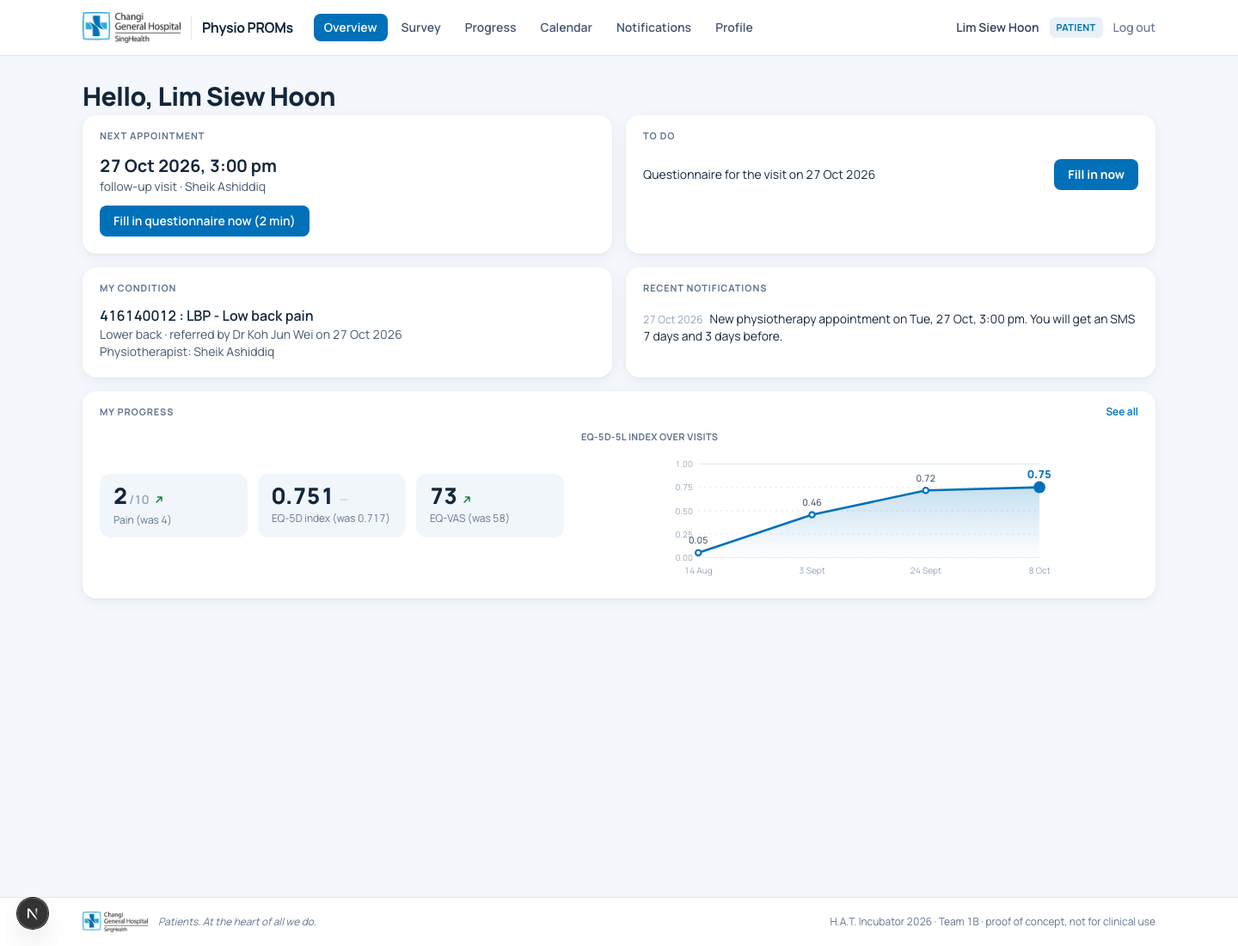
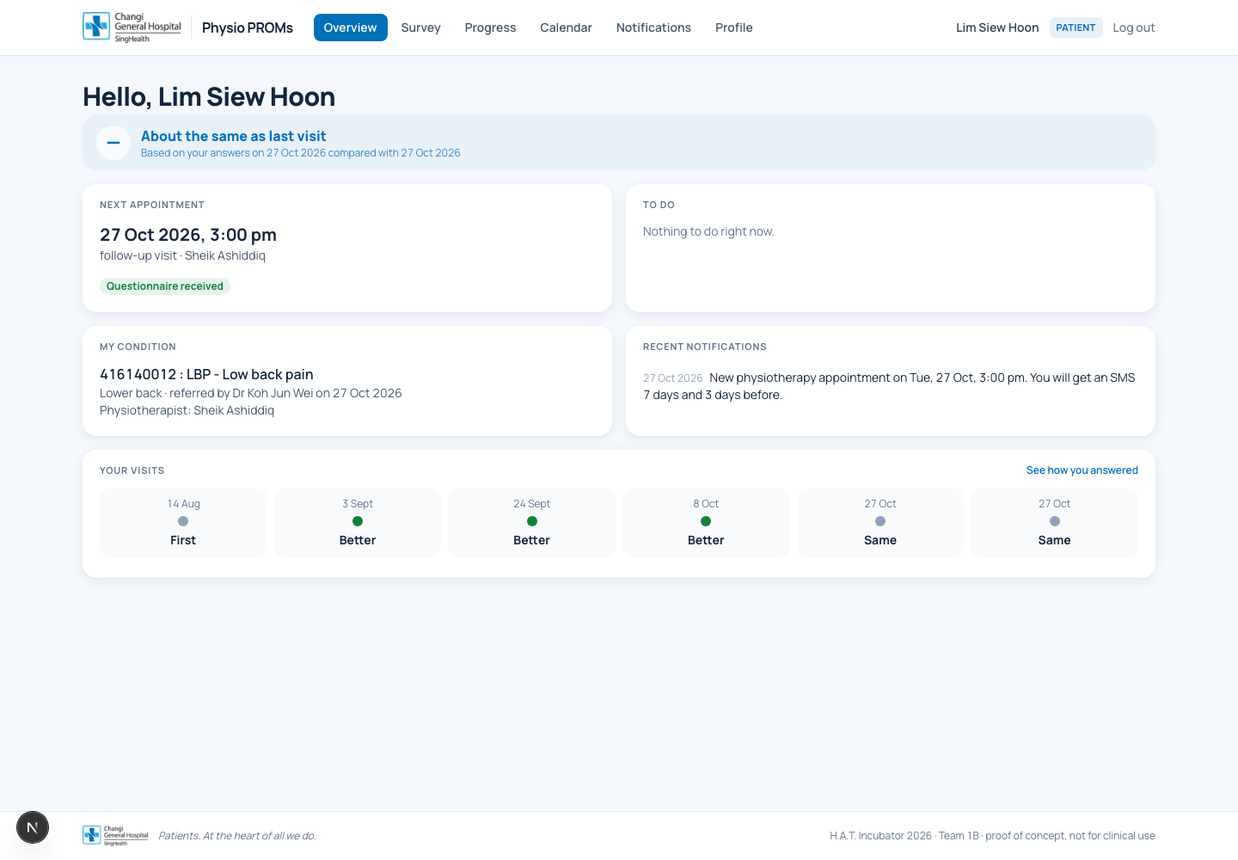
Plain-language patient views: verdict card, answers in the patient's own words with dot scales, pain and health bars, visit strip; physio list gets one 'Change since last visit' column; staff tiles explained in words

diff --git a/web/components/PlainProgress.tsx b/web/components/PlainProgress.tsx
@@ -1,0 +1,82 @@
+import { patientBundle, type Survey } from "@/lib/data";
+import { DIMS, DIM_ICON, VERDICT_TEXT, dimChange, dimName, dimPhrase, verdict } from "@/lib/plain";
+import { Card, LV_BG, Pill, TrendChart, fmtD, fmtDT, startOfTodaySG } from "./ui";
+
+const dLabel = (iso: string) => new Date(iso).toLocaleDateString("en-SG", { day: "numeric", month: "short", timeZone: "Asia/Singapore" });
+const TONE_BG = { ok: "bg-ok-bg text-ok", neutral: "bg-cgh-mist text-cgh-blue", warn: "bg-warn-bg text-warn" };
+const ICON = {
+  ok: "M4 12l5 5L20 7", neutral: "M5 12h14", warn: "M12 5v9m0 4h.01", first: "M12 3v18M3 12h18",
+};
+
+export function VerdictCard({ cur, prev, compact = false }: { cur: Survey | null; prev: Survey | null; compact?: boolean }) {
+  const v = verdict(cur, prev); const t = VERDICT_TEXT[v];
+  const icon = v === "first" ? ICON.first : ICON[t.tone];
+  return <div className={`rounded-2xl ${TONE_BG[t.tone]} ${compact ? "px-4 py-3" : "px-5 py-4"} flex items-center gap-3`}>
+    <span className="w-10 h-10 rounded-full bg-white/70 flex items-center justify-center shrink-0"><svg width="22" height="22" viewBox="0 0 24 24" fill="none" stroke="currentColor" strokeWidth="2.5" strokeLinecap="round" strokeLinejoin="round"><path d={icon} /></svg></span>
+    <div><div className={`font-extrabold ${compact ? "text-base" : "text-lg"}`}>{t.title}</div>{cur && <div className="text-xs opacity-80">Based on your answers on {fmtD(cur.submitted_at)}{prev ? ` compared with ${fmtD(prev.submitted_at)}` : ""}</div>}</div>
+  </div>;
+}
+
+export function Dots({ level }: { level: number }) {
+  return <span className="inline-flex gap-1" aria-label={`level ${level} of 5`}>{[1, 2, 3, 4, 5].map((n) => <span key={n} className={`w-3.5 h-3.5 rounded-full ${n <= level ? LV_BG[level] + " ring-1 ring-black/5" : "bg-slate-200"}`} />)}</span>;
+}
+
+export function VisitStrip({ surveys }: { surveys: Survey[] }) {
+  const last = surveys.slice(-6);
+  if (!last.length) return <p className="text-sm text-slate-500">Your visits will appear here after your first questionnaire.</p>;
+  return <div className="flex gap-2 overflow-x-auto pb-1">{last.map((s, i) => {
+    const prev = i === 0 ? (surveys.length > 6 ? surveys[surveys.length - 7] : null) : last[i - 1];
+    const v = verdict(s, prev); const t = VERDICT_TEXT[v];
+    const dot = { ok: "bg-ok", neutral: "bg-slate-400", warn: "bg-warn" }[t.tone];
+    return <div key={s.id} className="min-w-[96px] flex-1 rounded-xl bg-slate-50 px-3 py-2.5 text-center"><div className="text-xs text-slate-500">{dLabel(s.submitted_at)}</div><div className={`w-3 h-3 rounded-full mx-auto my-1.5 ${dot}`} /><div className="text-sm font-bold">{v === "first" ? "First" : t.short}</div></div>;
+  })}</div>;
+}
+
+function Bar({ value, max, prev, label }: { value: number; max: number; prev: number | null; label: string }) {
+  return <div className="relative h-3 rounded-full bg-slate-200 overflow-visible mt-2" aria-label={label}>
+    <div className="h-3 rounded-full bg-cgh-blue" style={{ width: `${(value / max) * 100}%` }} />
+    {prev != null && <div className="absolute -top-1 h-5 w-0.5 bg-cgh-ink/70" style={{ left: `calc(${(prev / max) * 100}% - 1px)` }}><span className="absolute top-5 -translate-x-1/2 text-[10px] text-slate-500 whitespace-nowrap">last time</span></div>}
+  </div>;
+}
+
+/** The patient's (or caregiver's) plain-language view of the latest questionnaire. */
+export async function PlainProgress({ patientId, caregiver = false }: { patientId: number; caregiver?: boolean }) {
+  const b = await patientBundle(patientId);
+  if (!b) return <p>Patient not found.</p>;
+  const { surveys, appointments } = b;
+  const cur = surveys.at(-1) ?? null, prev = surveys.at(-2) ?? null;
+  const upcoming = appointments.filter((a) => a.status === "scheduled" && new Date(a.scheduled_at) >= startOfTodaySG());
+  return <div className="grid lg:grid-cols-[1fr_360px] gap-4">
+    <div className="space-y-4">
+      <VerdictCard cur={cur} prev={prev} />
+      {cur ? <>
+        <Card title="How you answered" right={`on ${fmtD(cur.submitted_at)}`}>
+          <div className="divide-y divide-slate-100">{DIMS.map((d) => <div key={d} className="py-3 flex items-start gap-3">
+            <span className="w-9 h-9 rounded-xl bg-cgh-mist text-cgh-blue flex items-center justify-center shrink-0"><svg width="20" height="20" viewBox="0 0 24 24" fill="none" stroke="currentColor" strokeWidth="1.8" strokeLinecap="round" strokeLinejoin="round"><path d={DIM_ICON[d]} /></svg></span>
+            <div className="flex-1 min-w-0"><div className="text-xs font-bold uppercase tracking-wide text-slate-500">{dimName(d)}</div><div className="font-semibold text-cgh-ink">{dimPhrase(d, cur[d])}</div>{prev && <div className="text-xs text-slate-500 mt-0.5">{dimChange(cur[d], prev[d])}</div>}</div>
+            <Dots level={cur[d]} />
+          </div>)}</div>
+          <div className="pt-4 mt-1 border-t border-slate-100">
+            <div className="font-semibold">Pain today: <span className="text-cgh-ink font-extrabold">{cur.pain} out of 10</span>{prev && <span className="text-xs text-slate-500 font-normal ml-2">{cur.pain < prev.pain ? "less than last time" : cur.pain > prev.pain ? "more than last time" : "same as last time"} ({prev.pain})</span>}</div>
+            <div className="grid grid-cols-10 gap-1 mt-2">{Array.from({ length: 10 }, (_, i) => <div key={i} className={`h-3 rounded ${i < cur.pain ? (cur.pain >= 7 ? "bg-danger" : cur.pain >= 4 ? "bg-warn" : "bg-ok") : "bg-slate-200"}`} />)}</div>
+            <div className="flex justify-between text-[10px] text-slate-400 mt-1"><span>No pain</span><span>Worst pain</span></div>
+          </div>
+          <div className="pt-4 mt-3 border-t border-slate-100">
+            <div className="font-semibold">You rated your health <span className="text-cgh-ink font-extrabold">{cur.eq_vas} out of 100</span></div>
+            <Bar value={cur.eq_vas} max={100} prev={prev?.eq_vas ?? null} label="health rating" />
+            <div className="flex justify-between text-[10px] text-slate-400 mt-5"><span>Worst health</span><span>Best health</span></div>
+          </div>
+        </Card>
+        <Card title="Your visits" right="each box is one questionnaire"><VisitStrip surveys={surveys} /></Card>
+        {caregiver && <Card title="Pain over visits" right="0 = no pain, 10 = worst pain"><TrendChart points={surveys.map((s) => ({ x: dLabel(s.submitted_at), y: s.pain }))} max={10} min={0} color="#b91c1c" label="" /></Card>}
+        <Card title="Previous answers" tight><table className="tbl"><thead><tr><th>Date</th><th>How it went</th><th>Filled by</th></tr></thead><tbody>
+          {[...surveys].reverse().map((s, i, arr) => { const p = arr[i + 1] ?? null; const v = verdict(s, p); const t = VERDICT_TEXT[v]; return <tr key={s.id}><td>{fmtDT(s.submitted_at)}</td><td><Pill tone={t.tone}>{v === "first" ? "First questionnaire" : t.short}</Pill></td><td className="text-slate-500">{s.filled_by_name}</td></tr>; })}
+        </tbody></table></Card>
+      </> : <Card title="How you answered"><p className="text-sm text-slate-500">After your first questionnaire this page shows your answers in plain words and how they change visit by visit.</p></Card>}
+    </div>
+    <div className="space-y-4">
+      <Card title="Next appointments">{upcoming.length === 0 && <p className="text-sm text-slate-500">No upcoming appointment.</p>}{upcoming.map((a) => <div key={a.id} className="flex items-center gap-2 text-sm py-2 border-b border-slate-100 last:border-0"><div className="flex-1"><div className="font-semibold">{fmtDT(a.scheduled_at)}</div><div className="text-xs text-slate-500">{a.kind} · {a.physio_name ?? "physiotherapist to be confirmed"}</div></div>{a.survey_id ? <Pill ok>Questionnaire received</Pill> : <a href={`/survey?appt=${a.id}`} className="px-3 py-1.5 rounded-lg bg-cgh-blue text-white text-xs font-bold">Fill in now</a>}</div>)}</Card>
+      {b.referrals[0] && <Card title="My condition"><div className="font-semibold">{b.referrals[0].diagnosis}</div><div className="text-sm text-slate-600 mt-1">{b.referrals[0].region} · referred by {b.referrals[0].doctor_name}</div><div className="text-sm text-slate-600">Physiotherapist: {b.referrals[0].physio_name ?? "to be assigned"}</div></Card>}
+    </div>
+  </div>;
+}

diff --git a/web/app/patient/page.tsx b/web/app/patient/page.tsx
@@ -1,9 +1,9 @@
 import { redirect } from "next/navigation";
 import { session } from "@/lib/auth";
 import { db, one } from "@/lib/db";
-import { patientBundle, flagsFor } from "@/lib/data";
-import { PatientDetail } from "@/components/PatientDetail";
-import { Card, Pill, Stat, TrendChart, fmtDT, fmtD, age, startOfTodaySG } from "@/components/ui";
+import { patientBundle } from "@/lib/data";
+import { PlainProgress, VerdictCard, VisitStrip } from "@/components/PlainProgress";
+import { Card, Pill, fmtDT, fmtD, age, startOfTodaySG } from "@/components/ui";
 import { Nav } from "@/components/Nav";
 import { Suspense } from "react";
 import { markReadAction } from "../actions";
@@ -20,8 +20,7 @@ export default async function PatientPage({ searchParams }: { searchParams: Prom
   const unread = notes.filter((n) => n.channel === "app" && !n.read_at).length;
   const next = b.appointments.find((a) => a.status === "scheduled" && new Date(a.scheduled_at) >= startOfTodaySG());
   const pending = b.appointments.filter((a) => a.status === "scheduled" && !a.survey_id && new Date(a.scheduled_at) >= startOfTodaySG());
-  const cur = b.surveys.at(-1) ?? null, prev = b.surveys.at(-2) ?? null, fl = flagsFor(cur, prev);
-  const dLabel = (iso: string) => new Date(iso).toLocaleDateString("en-SG", { day: "numeric", month: "short", timeZone: "Asia/Singapore" });
+  const cur = b.surveys.at(-1) ?? null, prev = b.surveys.at(-2) ?? null;
   const tabs: [string, string][] = [["home", "Overview"], ["survey", "Survey"], ["progress", "Progress"], ["calendar", "Calendar"], ["notifications", `Notifications${unread ? ` (${unread})` : ""}`], ["profile", "Profile"]];
   return <div>
     {s.user.role === "caregiver" && <div className="mb-3 bg-warn-bg rounded-lg px-3 py-2 text-sm">You are viewing <b>{b.patient.name}</b>'s page as their caregiver. <a href="/caregiver" className="underline">Switch parent</a></div>}
@@ -29,23 +28,15 @@ export default async function PatientPage({ searchParams }: { searchParams: Prom
     <div className="my-4 md:hidden"><Suspense><Nav items={tabs.map(([k, l]) => [k === "home" ? "/patient" : `/patient?tab=${k}`, l])} /></Suspense></div>
     {done && <div className="mb-3 bg-ok-bg rounded-lg px-3 py-2 text-sm">Thank you, your questionnaire has been sent to your physiotherapist.</div>}
     {tab === "home" && <div className="grid md:grid-cols-2 gap-4">
+      {b.surveys.length > 0 && <div className="md:col-span-2"><VerdictCard cur={cur} prev={prev} compact /></div>}
       <Card title="Next appointment">{next ? <><div className="text-xl font-bold">{fmtDT(next.scheduled_at)}</div><div className="text-slate-600 text-sm">{next.kind} visit · {next.physio_name ?? "physiotherapist TBC"}</div><div className="mt-3">{next.survey_id ? <Pill ok>Questionnaire received</Pill> : <a href={`/survey?appt=${next.id}`} className="inline-block px-4 py-2 rounded-lg bg-cgh-blue text-white text-sm font-semibold">Fill in questionnaire now (2 min)</a>}</div></> : <p className="text-slate-500 text-sm">No upcoming appointment.</p>}</Card>
       <Card title="To do">{pending.length ? pending.map((a) => <div key={a.id} className="flex items-center justify-between text-sm py-1.5 border-b border-slate-100 last:border-0"><span>Questionnaire for the visit on {fmtD(a.scheduled_at)}</span><a href={`/survey?appt=${a.id}`} className="px-4 py-2 rounded-lg bg-cgh-blue text-white text-sm font-bold hover:bg-cgh-blue-dark">Fill in now</a></div>) : <p className="text-slate-500 text-sm">Nothing to do right now.</p>}</Card>
       <Card title="My condition">{b.referrals[0] ? <><div className="font-semibold">{b.referrals[0].diagnosis}</div><div className="text-sm text-slate-600">{b.referrals[0].region} · referred by {b.referrals[0].doctor_name} on {fmtD(b.referrals[0].created_at)}</div><div className="text-sm text-slate-600">Physiotherapist: {b.referrals[0].physio_name ?? "to be assigned"}</div></> : <p className="text-slate-500 text-sm">No referral yet.</p>}</Card>
       <Card title="Recent notifications">{notes.slice(0, 4).map((n) => <div key={n.id} className="text-sm py-1.5 border-b border-slate-100 last:border-0"><span className="text-xs text-slate-400 mr-2">{fmtD(n.send_at)}</span>{n.message}</div>)}{notes.length === 0 && <p className="text-slate-500 text-sm">None.</p>}</Card>
-      <Card title="My progress" right={<a href="/patient?tab=progress" className="text-cgh-blue font-semibold">See all</a>} className="md:col-span-2">
-        {cur ? <div className="grid md:grid-cols-[1fr_1.2fr] gap-5 items-center">
-          <div className="grid grid-cols-3 gap-3">
-            <Stat value={cur.pain} unit="/10" label={<>Pain {prev && `(was ${prev.pain})`}</>} arrow={fl.pain} />
-            <Stat value={cur.index_value.toFixed(3)} label={<>EQ-5D index {prev && `(was ${prev.index_value.toFixed(3)})`}</>} arrow={fl.index} />
-            <Stat value={cur.eq_vas} label={<>EQ-VAS {prev && `(was ${prev.eq_vas})`}</>} arrow={fl.vas} />
-          </div>
-          <TrendChart points={b.surveys.map((x) => ({ x: dLabel(x.submitted_at), y: x.index_value }))} max={1} min={0} label="EQ-5D-5L index over visits" fmt={(v) => v.toFixed(2)} />
-        </div> : <p className="text-sm text-slate-500">Your progress charts will appear here after your first questionnaire.</p>}
-      </Card>
+      <Card title="Your visits" right={<a href="/patient?tab=progress" className="text-cgh-blue font-semibold">See how you answered</a>} className="md:col-span-2"><VisitStrip surveys={b.surveys} /></Card>
     </div>}
     {tab === "survey" && <Card title="Questionnaire (EQ-5D-5L)">{pending.length ? <div className="space-y-2">{pending.map((a) => <div key={a.id} className="flex items-center justify-between text-sm"><span>For your appointment on <b>{fmtDT(a.scheduled_at)}</b></span><a href={`/survey?appt=${a.id}`} className="px-3 py-1.5 rounded bg-cgh-blue text-white text-xs font-semibold">Start</a></div>)}</div> : <div className="text-sm text-slate-600">No questionnaire due right now. You can still record how you feel today: <a href="/survey" className="underline text-cgh-blue">fill an extra entry</a>.</div>}</Card>}
-    {tab === "progress" && <PatientDetail patientId={patientId} self />}
+    {tab === "progress" && <PlainProgress patientId={patientId} caregiver={s.user.role === "caregiver"} />}
     {tab === "calendar" && <Card title="Calendar"><table className="tbl"><thead><tr><th>When</th><th>Visit</th><th>Physiotherapist</th><th>Questionnaire</th></tr></thead><tbody>{[...b.appointments].reverse().map((a) => <tr key={a.id} ><td>{fmtDT(a.scheduled_at)}</td><td>{a.kind} <span className="text-slate-400">· {a.status}</span></td><td>{a.physio_name ?? "—"}</td><td>{a.survey_id ? <Pill ok>done</Pill> : a.status === "scheduled" ? <a href={`/survey?appt=${a.id}`} className="underline text-cgh-blue">fill now</a> : "—"}</td></tr>)}</tbody></table></Card>}
     {tab === "notifications" && <Card title="Notifications" right={<form action={markReadAction}><button className="underline">Mark all as read</button></form>}>{notes.map((n) => <div key={n.id} className={`text-sm py-2 border-b border-slate-100 last:border-0 ${n.channel === "app" && !n.read_at ? "font-semibold" : ""}`}><span className="text-xs text-slate-400 mr-2">{fmtDT(n.send_at)} · {n.channel.toUpperCase()}</span>{n.message}</div>)}{notes.length === 0 && <p className="text-slate-500 text-sm">None.</p>}</Card>}
     {tab === "profile" && <Card title="Personal particulars"><dl className="grid grid-cols-[160px_1fr] gap-y-2 text-sm"><dt className="text-slate-500">Name</dt><dd>{b.patient.name}</dd><dt className="text-slate-500">NRIC</dt><dd>{b.patient.login_id.slice(0, 1)}****{b.patient.login_id.slice(-4)}</dd><dt className="text-slate-500">Birthday</dt><dd>{fmtD(b.patient.birthday)} ({age(b.patient.birthday) ?? "-"} y)</dd><dt className="text-slate-500">Gender</dt><dd>{b.patient.gender ?? "—"}</dd><dt className="text-slate-500">Mobile</dt><dd>{b.patient.phone ?? "—"}</dd><dt className="text-slate-500">Address</dt><dd>{b.patient.address ?? "—"}</dd><dt className="text-slate-500">Caregivers</dt><dd>{b.caregivers.length ? b.caregivers.map((c) => `${c.name} (${c.relationship})`).join(", ") : "none linked"}</dd></dl></Card>}

diff --git a/web/app/physio/page.tsx b/web/app/physio/page.tsx
@@ -1,8 +1,10 @@
 import { redirect } from "next/navigation";
 import { session } from "@/lib/auth";
 import { db } from "@/lib/db";
-import { clinicList, levels, profileStr } from "@/lib/data";
-import { Arrow, Card, Pill, ProfileBadge, age, fmtD, fmtDT, fmtT } from "@/components/ui";
+import { clinicList } from "@/lib/data";
+import { DIMS, DIM_LABEL } from "@/lib/eq5d";
+import { VERDICT_TEXT, verdict } from "@/lib/plain";
+import { Card, Pill, age, fmtD, fmtDT, fmtT } from "@/components/ui";
 
 export default async function Physio({ searchParams }: { searchParams: Promise<{ day?: string }> }) {
   const s = await session(); if (!s || s.user.role !== "physio") redirect("/login");
@@ -19,17 +21,19 @@ export default async function Physio({ searchParams }: { searchParams: Promise<{
   const nSub = list.filter((r) => r.cur).length;
   return <div className="space-y-4">
     <Card tight title={`Clinic list · ${fmtD(date)}`} right={<span className="flex items-center gap-2">{nSub}/{list.length} questionnaires in before visit <form className="inline"><input type="date" name="day" defaultValue={date.toLocaleDateString("en-CA", { timeZone: "Asia/Singapore" })} className="border border-slate-300 rounded px-1 text-xs" /></form></span>}>
-      <table className="tbl"><thead><tr><th>Time</th><th>Status</th><th>Patient</th><th>Age · Sex</th><th>Region / diagnosis</th><th className="num">Pain</th><th>EQ-5D-5L</th><th className="num">Index</th><th className="num">EQ-VAS</th><th>Previous</th></tr></thead><tbody>
+      <table className="tbl"><thead><tr><th>Time</th><th>Status</th><th>Patient</th><th>Age · Sex</th><th>Region / diagnosis</th><th>Change since last visit</th></tr></thead><tbody>
         {list.map((r) => <tr key={r.appt_id} ><td className="font-bold tabular-nums whitespace-nowrap">{fmtT(r.scheduled_at)}</td>
           <td>{r.cur ? <><Pill ok>Submitted</Pill><div className="text-xs text-slate-500">{fmtDT(r.cur.submitted_at)}</div></> : <Pill ok={false}>Not submitted</Pill>}</td>
           <td><a href={`/patients/${r.patient_id}`} className="font-semibold text-cgh-blue hover:underline">{r.name}</a><div className="text-xs text-slate-500">{r.kind} · {r.nPrev} prior</div></td>
           <td>{age(r.birthday) ?? "-"} · {(r.gender ?? "-")[0]}</td><td>{r.region}<div className="text-xs text-slate-500 max-w-[220px] truncate">{r.diagnosis}</div></td>
-          <td className="num">{r.cur ? <><b>{r.cur.pain}</b><span className="text-slate-400">/10</span> <Arrow f={r.flags.pain} /></> : <span className="text-slate-300">—</span>}</td><td>{r.cur ? <ProfileBadge s={levels(r.cur)} /> : <span className="text-slate-300">—</span>}</td>
-          <td className="num">{r.cur ? <><b>{r.cur.index_value.toFixed(3)}</b> <Arrow f={r.flags.index} /></> : <span className="text-slate-300">—</span>}</td><td className="num">{r.cur ? <><b>{r.cur.eq_vas}</b> <Arrow f={r.flags.vas} /></> : <span className="text-slate-300">—</span>}</td>
-          <td className="min-w-[150px]">{r.prev ? <><span className="font-mono font-bold text-slate-700">{profileStr(r.prev)}</span> <span className="text-xs text-slate-400">{fmtD(r.prev.submitted_at)}</span><div className="text-xs text-slate-500 tabular-nums mt-0.5">index {r.prev.index_value.toFixed(2)} · VAS {r.prev.eq_vas} · pain {r.prev.pain}/10</div></> : <span className="text-slate-400">first visit</span>}</td></tr>)}
+          <td className="min-w-[260px]">{r.cur ? (() => { const v = verdict(r.cur, r.prev); const t = VERDICT_TEXT[v]; const why: string[] = [];
+              if (r.prev) { if (r.cur.pain !== r.prev.pain) why.push(`pain ${r.prev.pain}→${r.cur.pain}`); for (const d of DIMS) if (r.cur[d] !== r.prev[d]) why.push(`${DIM_LABEL[d].toLowerCase()} ${r.prev[d]}→${r.cur[d]}`); if (r.cur.eq_vas !== r.prev.eq_vas) why.push(`health ${r.prev.eq_vas}→${r.cur.eq_vas}`); if (!why.length) why.push("all answers the same"); }
+              else why.push(`pain ${r.cur.pain}/10`, `health ${r.cur.eq_vas}/100`);
+              return <><Pill tone={t.tone}>{v === "first" ? "First visit" : v === "better" ? "Improved" : v === "same" ? "Stable" : "Worse"}</Pill><div className="text-xs text-slate-500 mt-1">{why.slice(0, 4).join(" · ")}</div></>; })() : <span className="text-slate-300">awaiting questionnaire</span>}</td>
+          </tr>)}
         {list.length === 0 && <tr><td colSpan={10} className="py-3 text-slate-400">No appointments on this day.</td></tr>}
       </tbody></table>
-      <div className="text-xs text-slate-500 mt-2 px-4 pb-2"><Arrow f="improved" /> <Arrow f="worsened" /> change of at least the MCID versus the previous questionnaire · click a name for full history and the clinical-document note</div>
+      <div className="text-xs text-slate-500 mt-2 px-4 pb-2">Improved / Stable / Worse compares today's answers with the previous questionnaire · click a name for the full EQ-5D-5L profile, scores and the clinical-document note</div>
     </Card>
     <div className="grid lg:grid-cols-[1fr_320px] gap-4">
       <Card title="My patients" right={`${mine.length} active referrals`}>

diff --git a/web/components/PatientDetail.tsx b/web/components/PatientDetail.tsx
@@ -1,5 +1,5 @@
 import { clinicalNote, levels, profileStr, patientBundle, flagsFor } from "@/lib/data";
-import { DIMS, DIM_LABEL, LEVEL_LABEL } from "@/lib/eq5d";
+import { DIMS, DIM_LABEL, LEVEL_LABEL, VALUE_SET } from "@/lib/eq5d";
 import { Arrow, Card, LV_BG, Pill, ProfileBadge, Stat, TrendChart, age, fmtD, fmtDT, startOfTodaySG } from "./ui";
 import { CopyButton } from "./CopyButton";
 import { ActionForm, Field, inputCls } from "./Form";
@@ -21,10 +21,15 @@ export async function PatientDetail({ patientId, staff = false, self = false }: 
         {!self && <div className="mb-3"><div className="text-lg font-bold">{patient.name}</div><div className="text-slate-600 text-sm">{patient.login_id.slice(0, 1)}****{patient.login_id.slice(-4)} · {patient.gender ?? "-"} · {age(patient.birthday) ?? "-"} y · {patient.phone ?? "no phone"}{caregivers.length > 0 && <> · caregivers: {caregivers.map((c) => `${c.name} (${c.relationship})`).join(", ")}</>}</div></div>}
         {cur ? <>
           <div className="grid grid-cols-3 gap-3 mb-4">
-            <Stat value={cur.pain} unit="/10" label={<>Pain {prev && `(was ${prev.pain})`}</>} arrow={fl.pain} />
-            <Stat value={cur.index_value.toFixed(3)} label={<>EQ-5D index {prev && `(was ${prev.index_value.toFixed(3)})`}</>} arrow={fl.index} />
-            <Stat value={cur.eq_vas} label={<>EQ-VAS {prev && `(was ${prev.eq_vas})`}</>} arrow={fl.vas} />
+            <Stat value={cur.pain} unit="/10" label="Pain NRS" change={fl.pain} />
+            <Stat value={cur.index_value.toFixed(3)} label="EQ-5D-5L index" change={fl.index} />
+            <Stat value={cur.eq_vas} label="EQ-VAS" change={fl.vas} />
           </div>
+          <ul className="text-xs text-slate-500 mb-4 space-y-0.5 list-disc pl-4">
+            <li>Pain NRS 0–10, lower is better{prev && <> · was {prev.pain} · {cur.pain - prev.pain >= 0 ? "+" : ""}{cur.pain - prev.pain}{fl.pain === "stable" ? ", not clinically meaningful" : ", clinically meaningful"}</>}</li>
+            <li>EQ-5D-5L index 0–1, higher is better ({VALUE_SET} value set){prev && <> · was {prev.index_value.toFixed(2)} · {cur.index_value - prev.index_value >= 0 ? "+" : ""}{(cur.index_value - prev.index_value).toFixed(2)}{fl.index === "stable" ? ", not clinically meaningful" : ", clinically meaningful"}</>}</li>
+            <li>EQ-VAS 0–100, patient's own rating of their health, higher is better{prev && <> · was {prev.eq_vas} · {cur.eq_vas - prev.eq_vas >= 0 ? "+" : ""}{cur.eq_vas - prev.eq_vas}{fl.vas === "stable" ? ", not clinically meaningful" : ", clinically meaningful"}</>}</li>
+          </ul>
           <table className="tbl mb-2"><thead><tr><th>Dimension</th><th>Latest · {fmtD(cur.submitted_at)}</th><th>{prev ? <>Previous · {fmtD(prev.submitted_at)}</> : "Previous"}</th></tr></thead><tbody>
             {DIMS.map((d) => <tr key={d} ><td>{DIM_LABEL[d]}</td><td><span className={`inline-block w-6 text-center rounded font-bold ${LV_BG[cur[d]]}`}>{cur[d]}</span> <span className="text-slate-500">{LEVEL_LABEL[cur[d]]}</span></td><td>{prev ? <span className={`inline-block w-6 text-center rounded font-bold ${LV_BG[prev[d]]}`}>{prev[d]}</span> : "—"}</td></tr>)}
           </tbody></table>

diff --git a/web/app/page.tsx b/web/app/page.tsx
@@ -3,7 +3,6 @@ import { redirect } from "next/navigation";
 import { session } from "@/lib/auth";
 import { HOME } from "@/lib/roles";
 import { DEMO_PASSWORD } from "@/lib/seed";
-import { Arrow } from "@/components/ui";
 
 const DIMS = [["Mobility", 2], ["Self-care", 1], ["Usual activities", 2], ["Pain / discomfort", 3], ["Anxiety / depression", 1]] as const;
 const LV = ["", "lv1", "lv2", "lv3", "lv4", "lv5"];
@@ -27,7 +26,7 @@ export default async function Home() {
         <div className="absolute -inset-6 bg-gradient-to-br from-cgh-mist to-transparent rounded-[32px] -z-10" />
         <div className="bg-white rounded-2xl shadow-card p-5">
           <div className="flex items-center justify-between"><div><div className="text-[11px] font-bold uppercase tracking-wide text-slate-500">Clinic list · today</div><div className="font-bold text-cgh-ink">Tan Wei Ming · Knee · follow-up, 2:00 pm</div></div><span className="px-2 py-0.5 rounded-full text-xs font-bold bg-ok-bg text-ok">Submitted last night</span></div>
-          <div className="grid grid-cols-3 gap-3 mt-4">{[["3", "/10", "Pain", "from 5"], ["0.829", "", "EQ-5D index", "from 0.70"], ["72", "", "EQ-VAS", "from 60"]].map(([v, u, l, d]) => <div key={l} className="rounded-xl bg-cgh-mist/60 px-3 py-2.5"><div className="text-xl font-extrabold tabular-nums">{v}<span className="text-xs text-slate-400 font-semibold">{u}</span></div><div className="text-[11px] text-slate-500">{l}</div><div className="text-[11px] font-bold text-ok mt-0.5"><Arrow f="improved" /> {d}</div></div>)}</div>
+          <div className="grid grid-cols-3 gap-3 mt-4">{[["3", "/10", "Pain", "less than last visit"], ["Improved", "", "Since last visit", "pain 5→3, mobility 3→2"], ["72", "/100", "Own health rating", "up from 60"]].map(([v, u, l, d]) => <div key={l} className="rounded-xl bg-cgh-mist/60 px-3 py-2.5"><div className="text-xl font-extrabold tabular-nums">{v}<span className="text-xs text-slate-400 font-semibold">{u}</span></div><div className="text-[11px] text-slate-500">{l}</div><div className="text-[11px] font-bold text-ok mt-0.5">{d}</div></div>)}</div>
           <div className="mt-4 space-y-1.5">{DIMS.map(([d, l]) => <div key={d} className="flex items-center gap-3 text-sm"><span className="w-40 text-slate-600">{d}</span><span className="flex gap-1">{[1, 2, 3, 4, 5].map((n) => <span key={n} className={`w-7 h-6 rounded text-xs font-bold leading-6 text-center ${n === l ? LV[n] : "bg-slate-100 text-slate-300"}`}>{n}</span>)}</span></div>)}</div>
           <div className="mt-4 flex items-center gap-2"><span className="px-3 py-1.5 rounded-lg bg-cgh-blue text-white text-xs font-bold">Copy note for clinical document</span><span className="text-xs text-slate-400">EQ-5D-5L profile 21231 · England 2018 value set</span></div>
         </div>

diff --git a/web/lib/plain.ts b/web/lib/plain.ts
@@ -1,0 +1,42 @@
+// Plain-language helpers for patient-facing views. No index values, no profiles, no arrows.
+import { DIMS, DIM_LABEL, QUESTIONS, type Dim } from "./eq5d";
+import { flagsFor, type Survey } from "./data";
+
+export type Verdict = "better" | "same" | "worse" | "first";
+
+export function verdict(cur: Survey | null, prev: Survey | null): Verdict {
+  if (!cur) return "first";
+  if (!prev) return "first";
+  const f = flagsFor(cur, prev);
+  const score = [f.index, f.vas, f.pain].reduce((n, x) => n + (x === "improved" ? 1 : x === "worsened" ? -1 : 0), 0);
+  return score > 0 ? "better" : score < 0 ? "worse" : "same";
+}
+
+export const VERDICT_TEXT: Record<Verdict, { title: string; short: string; tone: "ok" | "neutral" | "warn" }> = {
+  better: { title: "You are doing better than last visit", short: "Better", tone: "ok" },
+  same: { title: "About the same as last visit", short: "Same", tone: "neutral" },
+  worse: { title: "Not as good as last visit", short: "Worse", tone: "warn" },
+  first: { title: "This is your first questionnaire", short: "First", tone: "neutral" },
+};
+
+/** Per-dimension comparison in words. Lower level = better. */
+export function dimChange(cur: number, prev: number | null): string {
+  if (prev == null) return "";
+  const d = prev - cur;
+  if (d === 0) return "same as last time";
+  if (d === 1) return "a little better than last time";
+  if (d > 1) return "better than last time";
+  if (d === -1) return "a little worse than last time";
+  return "worse than last time";
+}
+
+export const DIM_ICON: Record<Dim, string> = {
+  mo: "M9 4a1.5 1.5 0 1 1 3 0a1.5 1.5 0 0 1-3 0zM8 21l2-6 2 2v4h2v-5l-2-2 1-3 2 2h3v-2h-2l-3-3h-3L6 11v4h2v-3l1.5-1L8 21z",
+  sc: "M6 3h12v2H6zM7 6h10l-1 13H8zM10 10v5M14 10v5",
+  ua: "M3 20h18M5 20V9l7-5 7 5v11M10 20v-6h4v6",
+  pd: "M13 2 4 14h6l-1 8 9-12h-6z",
+  ad: "M7 17a5 5 0 0 1 0-10 6 6 0 0 1 11 2 4 4 0 0 1-1 8z",
+};
+export const dimPhrase = (d: Dim, level: number) => QUESTIONS[d].opts[level - 1];
+export const dimName = (d: Dim) => DIM_LABEL[d];
+export { DIMS };

diff --git a/web/components/ui.tsx b/web/components/ui.tsx
@@ -22,8 +22,9 @@ export const Pill = ({ ok, children, tone }: { ok?: boolean; children: React.Rea
   return <span className={`inline-block px-2 py-0.5 rounded-full text-xs font-bold ${cls}`}>{children}</span>;
 };
 
-export const Stat = ({ value, unit, label, arrow }: { value: React.ReactNode; unit?: string; label: React.ReactNode; arrow?: string }) =>
-  <div className="rounded-xl bg-cgh-mist/60 px-4 py-3"><div className="text-[26px] font-extrabold tabular-nums leading-none text-cgh-ink">{value}{unit && <span className="text-sm font-semibold text-slate-400 ml-0.5">{unit}</span>} {arrow && <Arrow f={arrow} />}</div><div className="text-xs text-slate-500 mt-1.5">{label}</div></div>;
+const CHANGE_TEXT: Record<string, [string, string]> = { improved: ["Improved", "text-ok"], worsened: ["Worse", "text-danger"], stable: ["No change", "text-slate-400"] };
+export const Stat = ({ value, unit, label, change }: { value: React.ReactNode; unit?: string; label: React.ReactNode; change?: string }) =>
+  <div className="rounded-xl bg-cgh-mist/60 px-4 py-3"><div className="text-[26px] font-extrabold tabular-nums leading-none text-cgh-ink">{value}{unit && <span className="text-sm font-semibold text-slate-400 ml-0.5">{unit}</span>}</div><div className="text-xs text-slate-500 mt-1.5">{label}{change && CHANGE_TEXT[change] && <span className={`ml-1.5 font-bold ${CHANGE_TEXT[change][1]}`}>{CHANGE_TEXT[change][0]}</span>}</div></div>;
 
 export const Btn = ({ children, primary = false, className = "", ...rest }: React.ButtonHTMLAttributes<HTMLButtonElement> & { primary?: boolean }) =>
   <button {...rest} className={`px-4 py-2 rounded-lg text-sm font-semibold transition disabled:opacity-50 ${primary ? "bg-cgh-blue text-white hover:bg-cgh-blue-dark" : "bg-white border border-slate-300 text-slate-700 hover:border-cgh-blue hover:text-cgh-blue"} ${className}`}>{children}</button>;
